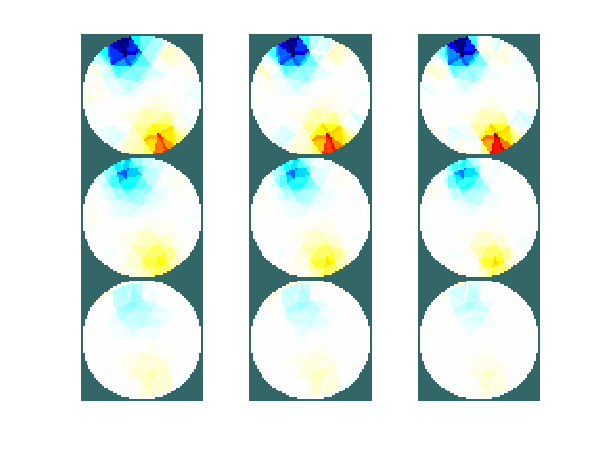
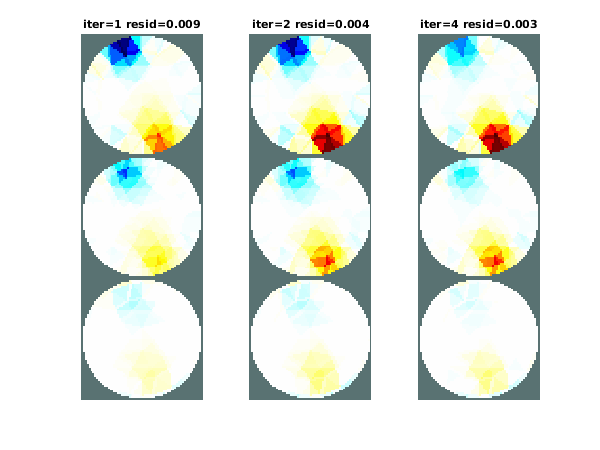
modify to use the "modern" inv_solve_gn interface
git-svn-id: svn+ssh://svn.code.sf.net/p/eidors3d/code/trunk@5524 82006732-fb7e-4a22-9f28-86a212cce563

diff --git a/htdocs/tutorial/adv_image_reconst/basic_iterative02.m b/htdocs/tutorial/adv_image_reconst/basic_iterative02.m
@@ -1,18 +1,15 @@
 % Reconstruct images $Id$
 
-% Set reconstruction parameters
-imdl_3d.solve= @np_inv_solve;
-imdl_3d.RtR_prior= @np_calc_image_prior;
-imdl_3d.np_calc_image_prior.parameters= [3 1];
+% Set reconstruction inv_solve_gn
+imdl_3d.solve= @inv_solve_gn;
+imdl_3d.RtR_prior= @prior_laplace;
 imdl_3d.hyperparameter.value= .01;
+imdl_3d.inv_solve_gn.return_working_variables = 1;
+iter_res = @(img) [size(img.inv_solve_gn.r,1)-1, img.inv_solve_gn.r(end,1)];
 
-imdl_3d.fwd_model.solve=      @np_fwd_solve;
-imdl_3d.fwd_model.jacobian=   @np_calc_jacobian;
-imdl_3d.fwd_model.system_mat= @np_calc_system_mat;
 
 % Number of iterations and tolerance (defaults)
-imdl_3d.parameters.max_iterations = 1;
-imdl_3d.parameters.term_tolerance = 1e-3;
+imdl_3d.inv_solve_gn.max_iterations = 1;
 
 %Add 30dB SNR noise to data
 noise_level= std(inh_data.meas - homg_data.meas)/10^(30/20);
@@ -22,22 +19,25 @@ inh_data.meas = inh_data.meas + noise_level* ...
 
 % Reconstruct Images: 1 Iteration
 subplot(131)
-imdl_3d.parameters.max_iterations = 1;
+imdl_3d.inv_solve_gn.max_iterations = 1;
 rec_img= inv_solve(imdl_3d, homg_data, inh_data);
 show_slices(rec_img,slice_posn);
+title(sprintf('iter=%d resid=%5.3f',iter_res(rec_img)));
 
 
 % Reconstruct Images: 2 Iterations
 subplot(132)
-imdl_3d.parameters.max_iterations = 2;
+imdl_3d.inv_solve_gn.max_iterations = 2;
 rec_img= inv_solve(imdl_3d, homg_data, inh_data);
 show_slices(rec_img,slice_posn);
+title(sprintf('iter=%d resid=%5.3f',iter_res(rec_img)));
 
-% Reconstruct Images: 6 Iterations
+% Reconstruct Images: 5 Iterations -- but stops at 4 (not improving)
 subplot(133)
-imdl_3d.parameters.max_iterations = 6;
+imdl_3d.inv_solve_gn.max_iterations = 5;
 rec_img= inv_solve(imdl_3d, homg_data, inh_data);
 show_slices(rec_img,slice_posn);
+title(sprintf('iter=%d resid=%5.3f',iter_res(rec_img)));
 
 
 print -r75 -dpng basic_iterative02a.png

diff --git a/htdocs/tutorial/adv_image_reconst/basic_iterative01.m b/htdocs/tutorial/adv_image_reconst/basic_iterative01.m
@@ -12,10 +12,10 @@ homg_data=fwd_solve( sim_img );
 % set inhomogeneous conductivity and simulate
 sim_img.elem_data([390,391,393,396,402,478,479,480,484,486, ...
                    664,665,666,667,668,670,671,672,676,677, ...
-                   678,755,760,761])= 1.15;
+                   678,755,760,761])= 10;
 sim_img.elem_data([318,319,321,324,330,439,440,441,445,447, ...
                    592,593,594,595,596,598,599,600,604,605, ...
-                   606,716,721,722])= 0.8;
+                   606,716,721,722])= 0.1;
 inh_data=fwd_solve( sim_img );
 
 
